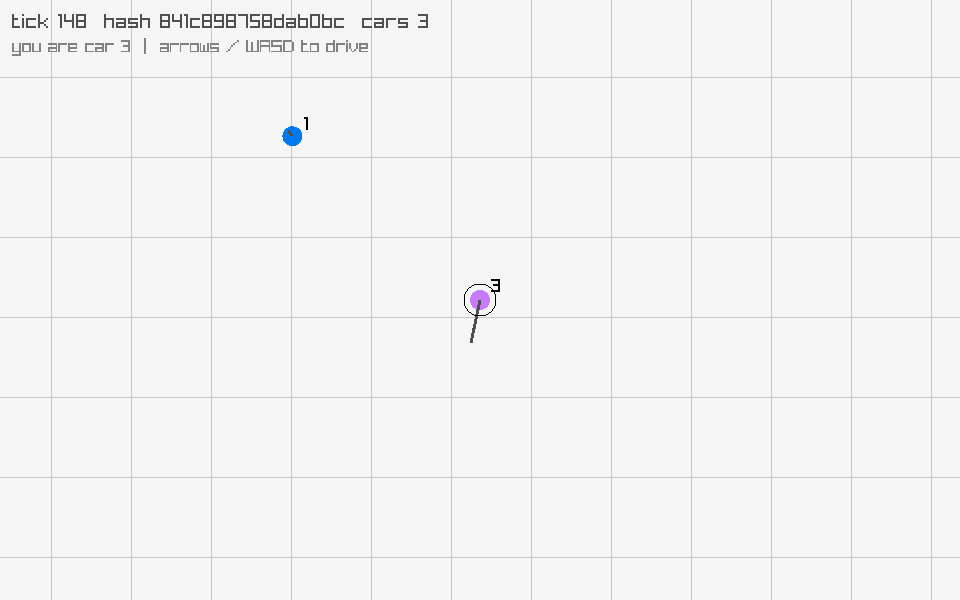
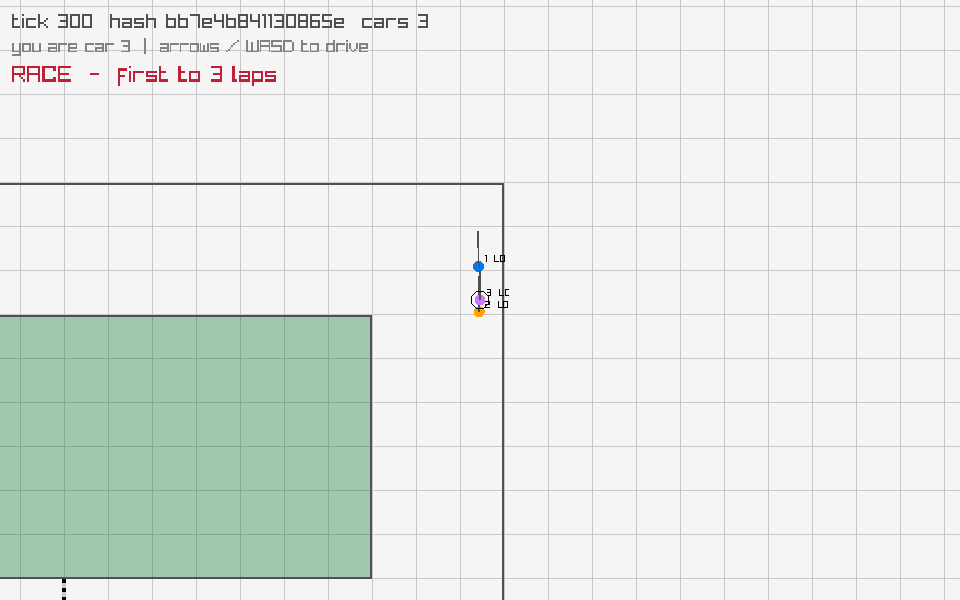
docs: new viewer frame of a live race, lobby and race options

diff --git a/README.md b/README.md
@@ -19,6 +19,8 @@ only render what the server says.
   `--steer` and `--throttle` it also drives its car.
 - `racer_viewer` (optional, raylib): renders the race live, follows your car,
   and drives it with the arrow keys or WASD.
+- `sim_test`: offline checks that bots lap the track, cars never leave it,
+  and identical inputs give identical hashes.
 - `racer_replay`: re-simulates a recorded race and checks the state hash on
   every tick, reporting the first tick that diverges.
 - `src/common/sim.hpp`: the simulation. Integer-only state (micrometres,
@@ -30,7 +32,8 @@ only render what the server says.
 Wire format, one line per tick (text for now so it's easy to inspect with `nc`):
 
 ```
-STATE <tick> <hash> <count> [<id> <x> <y> <vx> <vy>]...
+PHASE <lobby|countdown|race|finished> ...
+STATE <tick> <hash> <count> [<id> <x> <y> <vx> <vy> <lap>]...
 ```
 
 Clients send their controls the same way. `steer` is -1, 0 or 1 and
@@ -43,10 +46,12 @@ INPUT <steer> <throttle>
 
 ## Viewer
 
-![racer_viewer rendering a live race with three cars](docs/viewer.png)
+![racer_viewer rendering a live three-car race on the track](docs/viewer.png)
 
 This frame was rendered by `racer_viewer` in CI (under Xvfb) against a live
-server with three connected clients. Build it with:
+server with three connected clients, mid-race. Press Enter in the lobby to
+ready up; the race starts after a countdown once every player is ready, and
+the first car to finish the lap target wins. Build it with:
 
 ```sh
 cmake -S . -B build -DRACER_VIEWER=ON   # fetches and builds raylib 5.5
@@ -118,7 +123,8 @@ In one terminal, start the server (port 7777, 20 ticks per second):
 ```
 
 Options: `--seed N` (bot driver seed), `--record FILE` (write a race log),
-`--max-ticks N` (stop after N ticks).
+`--max-ticks N` (stop after N ticks), `--laps N` (laps to win, default 3),
+`--countdown TICKS` (default 3 s), `--min-players N` (default 1).
 
 In one or more other terminals, start clients:
 
@@ -155,7 +161,8 @@ cleanly, and that a log with one tampered input is caught at the right tick.
 - [x] Client input (steer, throttle) sent to the server
 - [x] CI: build with g++ and clang++, run the smoke test
 - [x] raylib viewer with keyboard driving, rendered in CI
-- Lobby with ready-up and countdown, track walls and laps
+- [x] Lobby with ready-up and countdown, track walls, laps and a winner
+- Results screen and rematch without restarting the server
 - Brake and boost inputs
 - Client-side check of server hashes and resync on mismatch
 - Binary wire format and UDP transport
